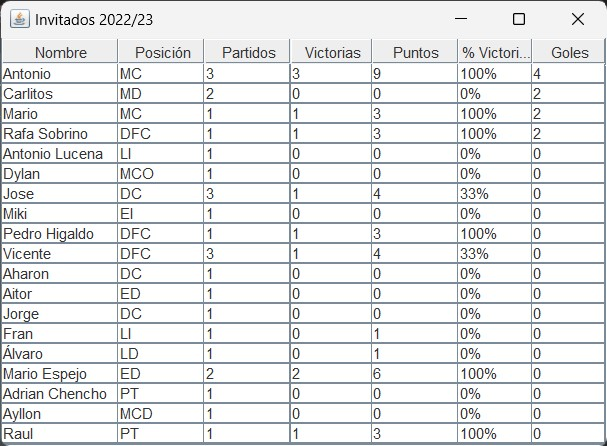
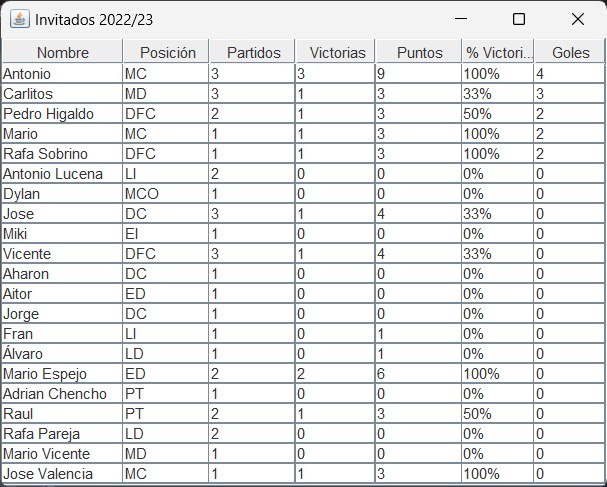
Game of 30Ap

diff --git a/test/TestQuemadillas.java b/test/TestQuemadillas.java
@@ -31,11 +31,11 @@ public class TestQuemadillas {
 		// TODO Auto-generated method stub
 		List<Player> lista = initialTest();
 		//showData(lista);
-		TestQuemadillas.table(lista);
+		//TestQuemadillas.table(lista);
 		//TestQuemadillas.tableTop(lista);
 		//TestQuemadillas.tableInvitados(lista);
-		//TestQuemadillas.tableRafalin(lista);
-		//System.out.println(topWinners(lista));
+		TestQuemadillas.tableRafalin(lista);
+		System.out.println(topWinners(lista));
 	}
 	
 	
@@ -130,7 +130,7 @@ public static void tableRafalin(List<Player> ls) {
     		   data[0]= new String[] {p.getName(),p.getPosition(),p.getGames().toString(),
 	   					  p.getVictories().toString(), p.getPoints().toString(),
 	   					  String.valueOf((p.getVictories()*100/p.getGames())+"%"),
-	   					  "9"
+	   					  "12"
 						 };
     		   break;
     	   }

diff --git a/python/victoriesGraph.py b/python/victoriesGraph.py
@@ -3,9 +3,9 @@ import numpy as np
 def graphVictories():
     
     # create data
-    x = ['Hugo', 'Cobos', 'Manuel del \n Rosal', 'Manosalva', 'Antonio\nLaguna']
-    y1 = [38, 38, 32, 32, 30]
-    y2 = [19, 19, 14, 20, 17]
+    x = ['Hugo', 'Cobos', 'Manosalva', 'Manuel \n del Rosal', 'Albertosi']
+    y1 = [47, 47, 41, 38, 35]
+    y2 = [24, 24, 24, 16, 23]
 
     # set width of bar
     bar_width = 0.35
